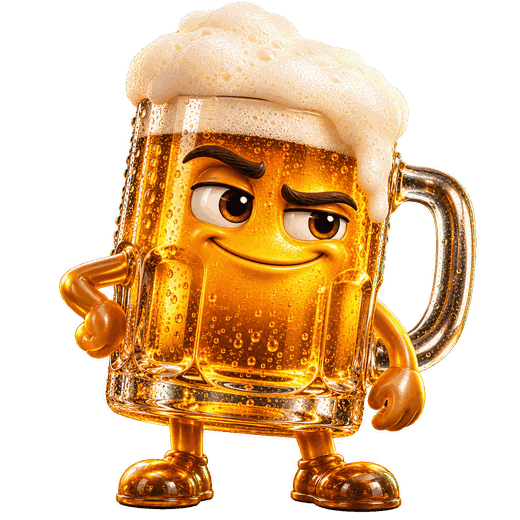
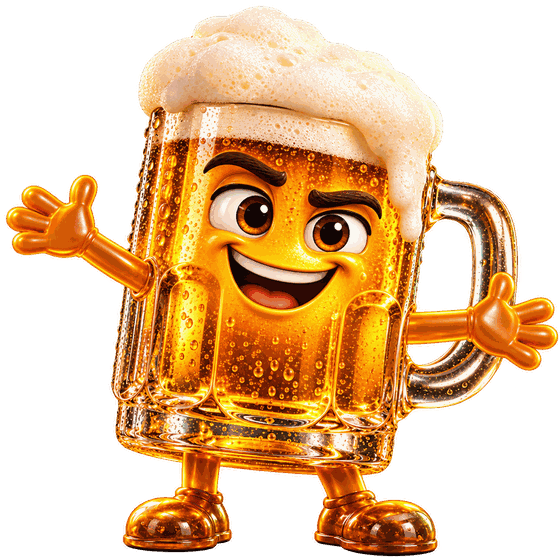
Krigla poses from ChatGPT: docked Krigla fills with scroll, footer wave, secret psst/shock, wallpapers (third unlocked by the hunt), Napunite Kriglu above the waitlist, drops on the ticket, new mail heroes

diff --git a/components/tapete.jsx b/components/tapete.jsx
@@ -1,0 +1,70 @@
+"use client";
+
+import { track } from "@vercel/analytics";
+import { useEffect, useState } from "react";
+
+// Krigla tapete za mobitel (Petar n6). Treća („psst“) je nagrada iz lova na Krigle (n5).
+const LOV_KEY = "lakat-lov";
+const TAPETE = [
+  { n: 1, ime: "Puna Krigla" },
+  { n: 2, ime: "Krigla maše" },
+  { n: 3, ime: "Psst", nagrada: true },
+];
+
+export function Tapete() {
+  const [lov, setLov] = useState(false);
+  useEffect(() => {
+    const sync = () => {
+      try {
+        setLov(JSON.parse(localStorage.getItem(LOV_KEY) || "[]").length >= 5);
+      } catch {}
+    };
+    const t = setTimeout(sync, 0);
+    window.addEventListener("lakat-say", sync);
+    return () => {
+      clearTimeout(t);
+      window.removeEventListener("lakat-say", sync);
+    };
+  }, []);
+
+  return (
+    <section data-krigla="Stavi me na zaključani ekran." className="mx-auto grid max-w-3xl gap-6 px-5 py-20">
+      <span className="font-mono text-[11px] uppercase tracking-[0.16em] text-muted">Tapete za mobitel</span>
+      <h2 className="font-display text-[clamp(40px,11vw,52px)] leading-[0.95] uppercase text-balance">
+        Krigla na zaključanom ekranu<span className="text-accent">.</span>
+      </h2>
+      <div className="grid grid-cols-3 gap-3">
+        {TAPETE.map((t) => {
+          const zakljucano = t.nagrada && !lov;
+          return (
+            <a
+              key={t.n}
+              href={zakljucano ? undefined : `/img/tapete/lakat-tapeta-${t.n}.jpg`}
+              download={zakljucano ? undefined : `lakat-tapeta-${t.n}.jpg`}
+              onClick={() => !zakljucano && track("tapeta_tap", { n: t.n })}
+              aria-disabled={zakljucano}
+              className={`group grid gap-2 ${zakljucano ? "cursor-default" : ""}`}
+            >
+              <span className="relative block overflow-hidden rounded-2xl border border-line">
+                <img
+                  src={`/img/tapete/mala-${t.n}.webp`}
+                  alt={t.ime}
+                  width={300}
+                  height={650}
+                  loading="lazy"
+                  className={`aspect-[9/19.5] w-full object-cover transition-[filter,scale] duration-500 ${zakljucano ? "blur-md brightness-50" : "group-hover:scale-[1.03]"}`}
+                />
+                {zakljucano && (
+                  <span className="absolute inset-0 grid place-items-center p-2 text-center text-[12px] leading-snug font-semibold text-fg">
+                    Nađi 5 skrivenih Krigli
+                  </span>
+                )}
+              </span>
+              <span className="text-center text-[13px] text-muted">{zakljucano ? "Zaključano" : "Preuzmi"}</span>
+            </a>
+          );
+        })}
+      </div>
+    </section>
+  );
+}

diff --git a/components/napunite-kriglu.jsx b/components/napunite-kriglu.jsx
@@ -1,0 +1,44 @@
+import { stanje, BROJ_OD } from "@/lib/krigla-cilj";
+import { dbReady, ukupno } from "@/lib/lista";
+import { KriglaSays } from "./brand";
+
+// Napunite Kriglu (Petar k1–k5): zajednička Krigla iznad liste čekanja puni se potvrđenim upisima.
+export async function NapuniteKriglu() {
+  if (!dbReady() || process.env.NEXT_PUBLIC_LISTA_PRO !== "1") return null;
+  const n = await ukupno().catch(() => null);
+  if (n === null) return null;
+  const s = stanje(n);
+  return (
+    <section data-krigla="Svaki upis je kap u meni." className="mx-auto grid max-w-3xl gap-6 px-5 pt-20 md:grid-cols-[0.9fr_1.1fr] md:items-center">
+      <div className="relative mx-auto w-[min(62vw,280px)]">
+        <div className="krigla-glow pointer-events-none absolute inset-[-12%] rounded-full" aria-hidden="true" />
+        <img src={`/img/krigla/${s.razina}.webp`} alt={`Krigla je ${s.pct} % puna`} width={480} height={480} className="float relative w-full object-contain" />
+      </div>
+      <div className="grid gap-4">
+        <span className="font-mono text-[11px] uppercase tracking-[0.16em] text-muted">
+          Krigla {Math.min(s.korak + 1, 4)} od 4{s.sljedeci ? ` · cilj ${s.cilj}` : ""}
+        </span>
+        <h2 className="font-display text-[clamp(40px,11vw,56px)] leading-[0.95] uppercase">
+          Napunite Kriglu<span className="text-accent">.</span>
+        </h2>
+        <div className="grid gap-2">
+          <div className="h-3 overflow-hidden rounded-full bg-surface-2" role="progressbar" aria-valuenow={s.pct} aria-valuemin={0} aria-valuemax={100}>
+            <div className="h-full rounded-full bg-[linear-gradient(90deg,#f5b544,#4ade80)]" style={{ width: `${Math.max(3, s.pct)}%` }} />
+          </div>
+          <p className="text-[14px] text-soft">
+            <b className="font-display text-[22px] font-normal text-accent">{s.pct} %</b> napunjeno
+            {n >= BROJ_OD ? ` · ${n} upisa` : ""}
+          </p>
+        </div>
+        <p className="text-[15px] text-soft text-pretty">
+          Svaki potvrđeni upis je jedna kap. Kad se Krigla napuni, otkrije trag o sedmoj funkciji, i kreće nova, veća.
+        </p>
+        {s.tragovi.map((t) => (
+          <KriglaSays key={t} size={40}>
+            {t}
+          </KriglaSays>
+        ))}
+      </div>
+    </section>
+  );
+}

diff --git a/components/sticky-cta.jsx b/components/sticky-cta.jsx
@@ -24,6 +24,8 @@ export function StickyCta({ live: launched = false }) {
   // Krigla uz gumb mijenja repliku po sekciji (Petar w26).
   const [line, setLine] = useState({ text: "", k: 0 });
   const [talk, setTalk] = useState(false);
+  // Krigla se puni dok skrolaš prema listi (Petar w26): prazna → pola → puna.
+  const [razina, setRazina] = useState("prazna");
 
   useEffect(() => {
     const sync = () => {
@@ -49,6 +51,27 @@ export function StickyCta({ live: launched = false }) {
     io.observe(target);
     return () => io.disconnect();
   }, [live]);
+
+  useEffect(() => {
+    let raf = 0;
+    const update = () => {
+      raf = 0;
+      if (signed) return setRazina("puna");
+      const lista = document.getElementById("lista");
+      const end = lista ? lista.getBoundingClientRect().top + window.scrollY - window.innerHeight : document.body.scrollHeight;
+      const p = end > 0 ? window.scrollY / end : 1;
+      setRazina(p < 0.33 ? "prazna" : p < 0.8 ? "pola" : "puna");
+    };
+    const onScroll = () => {
+      if (!raf) raf = requestAnimationFrame(update);
+    };
+    update();
+    window.addEventListener("scroll", onScroll, { passive: true });
+    return () => {
+      cancelAnimationFrame(raf);
+      window.removeEventListener("scroll", onScroll);
+    };
+  }, [signed]);
 
   // Bilo tko na stranici može natjerati Kriglu da nešto kaže (lov na Krigle).
   useEffect(() => {
@@ -137,7 +160,14 @@ export function StickyCta({ live: launched = false }) {
         <div className="relative mx-auto flex max-w-sm items-center gap-2.5 md:max-w-xs">
         {!live && (
           <div className="pointer-events-none relative shrink-0">
-            <img src="/img/krigla-lik.webp" alt="" width={48} height={48} className="size-12 object-contain drop-shadow-[0_6px_14px_rgb(74_222_128/0.35)]" />
+            <img
+              key={razina}
+              src={`/img/krigla/${razina}.webp`}
+              alt=""
+              width={48}
+              height={48}
+              className="chat-in size-12 object-contain drop-shadow-[0_6px_14px_rgb(74_222_128/0.35)]"
+            />
             {talk && line.text && (
               <p
                 key={line.k}

diff --git a/emails/lansiranje.html b/emails/lansiranje.html
@@ -18,7 +18,7 @@
 <table role="presentation" width="100%" cellpadding="0" cellspacing="0" border="0" style="max-width:560px;">
 <tr><td align="center" style="padding:0 0 20px;"><img src="https://lakat-web.vercel.app/img/mail/wordmark.png" width="104" alt="LAKAT." style="display:block;border:0;width:104px;height:auto;"></td></tr>
 <tr><td style="background:#131316;border:1px solid #27272A;border-radius:28px;overflow:hidden;">
-<img src="https://lakat-web.vercel.app/img/mail/lansiranje-hero.jpg" width="560" alt="LAKAT na mobitelu" style="display:block;border:0;width:100%;max-width:560px;height:auto;border-radius:28px 28px 0 0;">
+<img src="https://lakat-web.vercel.app/img/mail/lansiranje-hero-2.jpg" width="560" alt="LAKAT na mobitelu" style="display:block;border:0;width:100%;max-width:560px;height:auto;border-radius:28px 28px 0 0;">
 <table role="presentation" cellpadding="0" cellspacing="0" border="0" align="center" style="margin:-22px auto 0;position:relative;"><tr>
 <td style="background:#1A1A1F;border:1px solid #2E2E34;border-radius:18px 18px 18px 6px;padding:11px 17px;font-family:Arial,Helvetica,sans-serif;font-size:15px;line-height:21px;color:#F4F4F5;box-shadow:0 10px 24px -10px rgba(0,0,0,.8);">Stigao sam. Ekipa je već na karti.</td></tr></table>
 <table role="presentation" width="100%" cellpadding="0" cellspacing="0" border="0"><tr><td class="px" align="center" style="padding:26px 36px 34px;">

diff --git a/emails/potvrda.html b/emails/potvrda.html
@@ -18,7 +18,7 @@
 <table role="presentation" width="100%" cellpadding="0" cellspacing="0" border="0" style="max-width:560px;">
 <tr><td align="center" style="padding:0 0 20px;"><img src="https://lakat-web.vercel.app/img/mail/wordmark.png" width="104" alt="LAKAT." style="display:block;border:0;width:104px;height:auto;"></td></tr>
 <tr><td style="background:#131316;border:1px solid #27272A;border-radius:28px;overflow:hidden;">
-<img src="https://lakat-web.vercel.app/img/mail/potvrda-hero.jpg" width="560" alt="Krigla" style="display:block;border:0;width:100%;max-width:560px;height:auto;border-radius:28px 28px 0 0;">
+<img src="https://lakat-web.vercel.app/img/mail/potvrda-hero-2.jpg" width="560" alt="Krigla" style="display:block;border:0;width:100%;max-width:560px;height:auto;border-radius:28px 28px 0 0;">
 <table role="presentation" cellpadding="0" cellspacing="0" border="0" align="center" style="margin:-22px auto 0;position:relative;"><tr>
 <td style="background:#1A1A1F;border:1px solid #2E2E34;border-radius:18px 18px 18px 6px;padding:11px 17px;font-family:Arial,Helvetica,sans-serif;font-size:15px;line-height:21px;color:#F4F4F5;box-shadow:0 10px 24px -10px rgba(0,0,0,.8);">Ajde, klikni. Ne grizem.</td></tr></table>
 <table role="presentation" width="100%" cellpadding="0" cellspacing="0" border="0"><tr><td class="px" align="center" style="padding:26px 36px 34px;">

diff --git a/lib/krigla-cilj.js b/lib/krigla-cilj.js
@@ -1,0 +1,21 @@
+// Napunite Kriglu (Petar, 2026-10-05, db krigla_cilj/): ljestve 100 → 250 → 500 → 1000 potvrđenih upisa.
+// Na svakom pragu Krigla otkrije jedan trag o sedmoj funkciji. Sedma funkcija još nije smišljena,
+// pa su tragovi namjerno neodređeni — Petar ih mijenja ovdje kad je smisli.
+export const PRAGOVI = [100, 250, 500, 1000];
+export const TRAGOVI = [
+  "Prvi trag: kad je vidiš, pitat ćeš se zašto to prije nije postojalo.",
+  "Drugi trag: bez ekipe ne radi.",
+  "Treći trag: najbolja je kad se najmanje nadaš.",
+  "Zadnji trag: 1. 12. Više ni riječi, šef gleda.",
+];
+// Broj upisa pokazujemo tek kad prijeđe prvi prag (k3), da mala brojka ne izgleda prazno.
+export const BROJ_OD = PRAGOVI[0];
+
+export function stanje(n) {
+  const i = PRAGOVI.findIndex((p) => n < p);
+  const korak = i === -1 ? PRAGOVI.length : i; // koliko je pragova prijeđeno
+  const cilj = i === -1 ? PRAGOVI[PRAGOVI.length - 1] : PRAGOVI[i];
+  const pct = Math.min(100, Math.floor((n / cilj) * 100));
+  const razina = pct >= 85 ? "puna" : pct >= 40 ? "pola" : "prazna";
+  return { n, korak, cilj, pct, razina, tragovi: TRAGOVI.slice(0, korak), sljedeci: TRAGOVI[korak] ? cilj : null };
+}

diff --git a/components/ticket.jsx b/components/ticket.jsx
@@ -3,6 +3,11 @@
 import { track } from "@vercel/analytics";
 import { useState } from "react";
 
+function kapi(n) {
+  const z = n % 10, zz = n % 100;
+  return z === 1 && zz !== 11 ? "kap" : z >= 2 && z <= 4 && (zz < 12 || zz > 14) ? "kapi" : "kapi";
+}
+
 // Ulaznica za šank (w05) s osobnim kodom (w06). Slika za story dolazi s /api/ulaznica.
 export function Ticket({ refKod, ime, mjesto, doveo }) {
   const [torn, setTorn] = useState(false);
@@ -38,7 +43,9 @@ export function Ticket({ refKod, ime, mjesto, doveo }) {
         {busy ? "…" : "Spremi ulaznicu za Story"}
       </button>
       <p className="text-[14px] text-muted">
-        {doveo > 0 ? `Preko tvog linka upisalo se ${doveo} ${doveo === 1 ? "pajdaš" : "pajdaša"}.` : "Pošalji link ekipi. Tko se upiše preko njega, broji se tebi."}
+        {/* Napunite Kriglu (k4): tvoj upis je jedna kap, svaki pajdaš preko tvog linka još jedna. */}
+        Ti si dolio {1 + doveo} {kapi(1 + doveo)} u Kriglu.{" "}
+        {doveo > 0 ? `Preko tvog linka upisalo se ${doveo} ${doveo === 1 ? "pajdaš" : "pajdaša"}.` : "Pošalji link ekipi, svaki njihov upis je još jedna tvoja kap."}
       </p>
     </div>
   );

diff --git a/app/press/page.jsx b/app/press/page.jsx
@@ -53,8 +53,8 @@ export default function Press() {
           <b className="font-display text-[24px] leading-none font-normal uppercase">Najava · 0:49</b>
           <span className="text-[14px] text-muted">Video 9:16, MP4. Preuzmi.</span>
         </a>
-        <a href="/img/krigla-lik.webp" download className="grid grid-cols-[64px_1fr] items-center gap-4 rounded-2xl border border-line bg-surface p-5 hover:border-[#3f3f46]">
-          <img src="/img/krigla-lik.webp" alt="Krigla" width={64} height={64} className="size-16 object-contain" />
+        <a href="/img/krigla/puna.webp" download className="grid grid-cols-[64px_1fr] items-center gap-4 rounded-2xl border border-line bg-surface p-5 hover:border-[#3f3f46]">
+          <img src="/img/krigla/puna.webp" alt="Krigla" width={64} height={64} className="size-16 object-contain" />
           <span className="grid gap-1">
             <b className="font-display text-[24px] leading-none font-normal uppercase">Krigla</b>
             <span className="text-[14px] text-muted">Maskota, WebP s prozirnom pozadinom.</span>

diff --git a/components/home.jsx b/components/home.jsx
@@ -4,9 +4,11 @@ import { Hero } from "./hero";
 import { Faq, Film, Footer, Instagram, PlayGame, Privacy, Secret, WaitlistSection } from "./sections";
 import { KvartRat } from "./kvart-rat";
 import { LaunchTakeover } from "./launch-takeover";
+import { NapuniteKriglu } from "./napunite-kriglu";
 import { Podne } from "./podne";
 import { PwaSaved } from "./pwa-saved";
 import { StickyCta } from "./sticky-cta";
+import { Tapete } from "./tapete";
 import { APP_STORE, isLive } from "@/lib/launch";
 
 // Cijela stranica. `challenge` = rezultat pajdaša kad netko dođe preko izazova (/i/37).
@@ -23,10 +25,12 @@ export function Home({ challenge = null }) {
         <PlayGame challenge={challenge} />
         <Film />
         <Privacy />
+        {!live && <NapuniteKriglu />}
         <WaitlistSection live={live && Boolean(APP_STORE)} />
         {!live && <KvartRat />}
         <Instagram live={live} />
         <Faq live={live} />
+        <Tapete />
       </main>
       <Footer />
       <StickyCta live={live} />

diff --git a/components/pwa-saved.jsx b/components/pwa-saved.jsx
@@ -38,7 +38,7 @@ export function PwaSaved({ live = false }) {
         <span className="font-display text-[20px] leading-none">
           LAKAT<span className="text-accent">.</span>
         </span>
-        <img src="/img/krigla-lik.webp" alt="" width={160} height={160} className="float size-40 object-contain drop-shadow-[0_16px_40px_rgb(74_222_128/0.5)]" />
+        <img src="/img/krigla/mase.webp" alt="" width={160} height={160} className="float size-40 object-contain drop-shadow-[0_16px_40px_rgb(74_222_128/0.5)]" />
         <h1 className="font-display text-[clamp(44px,13vw,60px)] leading-[0.92] uppercase">
           Račun ti je spremljen<span className="text-accent">.</span>
         </h1>

diff --git a/components/tilt-phone.jsx b/components/tilt-phone.jsx
@@ -137,7 +137,7 @@ export function TiltPhone({ width, live = false }) {
               <p className="peek rounded-2xl border border-line bg-surface-2 px-3 py-2 text-center text-[13px] leading-snug">
                 {live ? "Što me bockaš? Skini me već jednom." : "Što me bockaš? Strpi se do 1. 12."}
               </p>
-              <img src="/img/krigla-lik.webp" alt="" className="peek w-[46%]" />
+              <img src="/img/krigla/sok.webp" alt="" className="peek w-[46%]" />
             </div>
           )}
         </Phone>

diff --git a/components/hunt.jsx b/components/hunt.jsx
@@ -39,7 +39,7 @@ export function HuntKrigla({ id, className = "", size = 26 }) {
     setPop(true);
     setTimeout(() => setFound(true), 450);
     play(list.length === TOTAL ? "kasa" : "zvecka");
-    say(list.length === TOTAL ? "Našao si svih pet. Pravi lovac. Sad znaš više od šefa." : `Našao si me. ${list.length} od ${TOTAL}.`);
+    say(list.length === TOTAL ? "Našao si svih pet. Pravi lovac. Dolje te čeka tajna tapeta." : `Našao si me. ${list.length} od ${TOTAL}.`);
   }
 
   if (found) return null;
